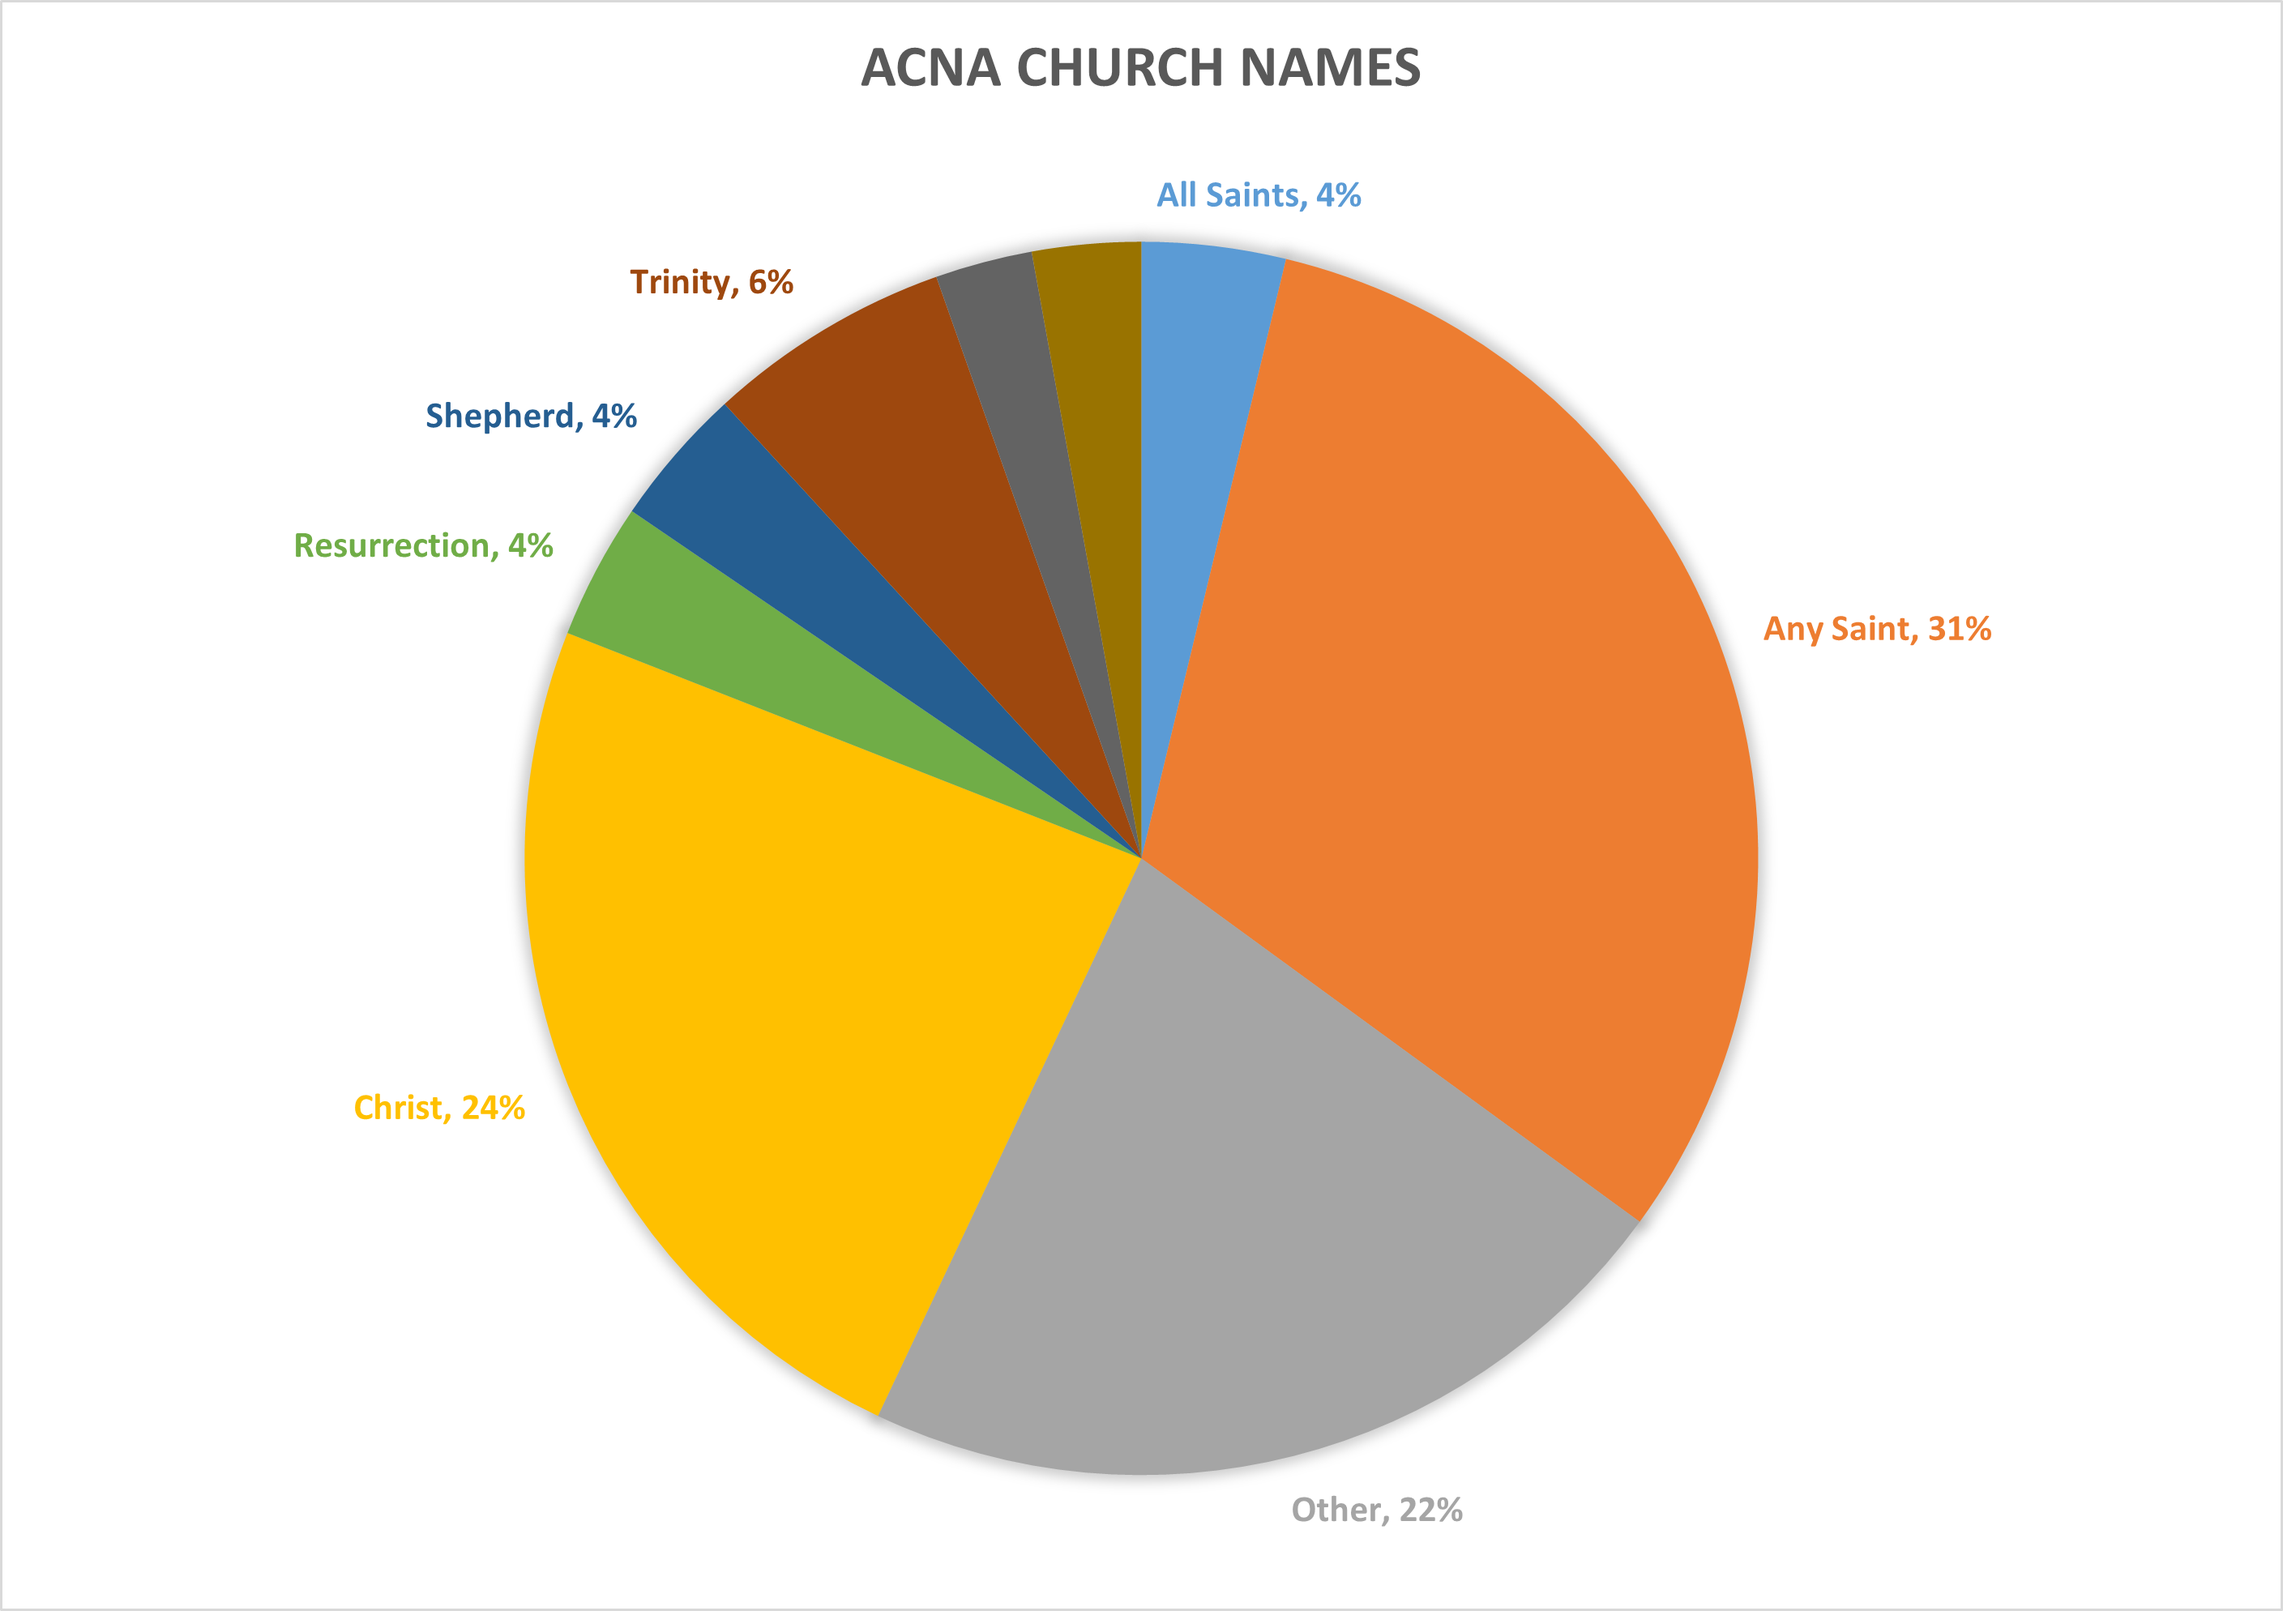
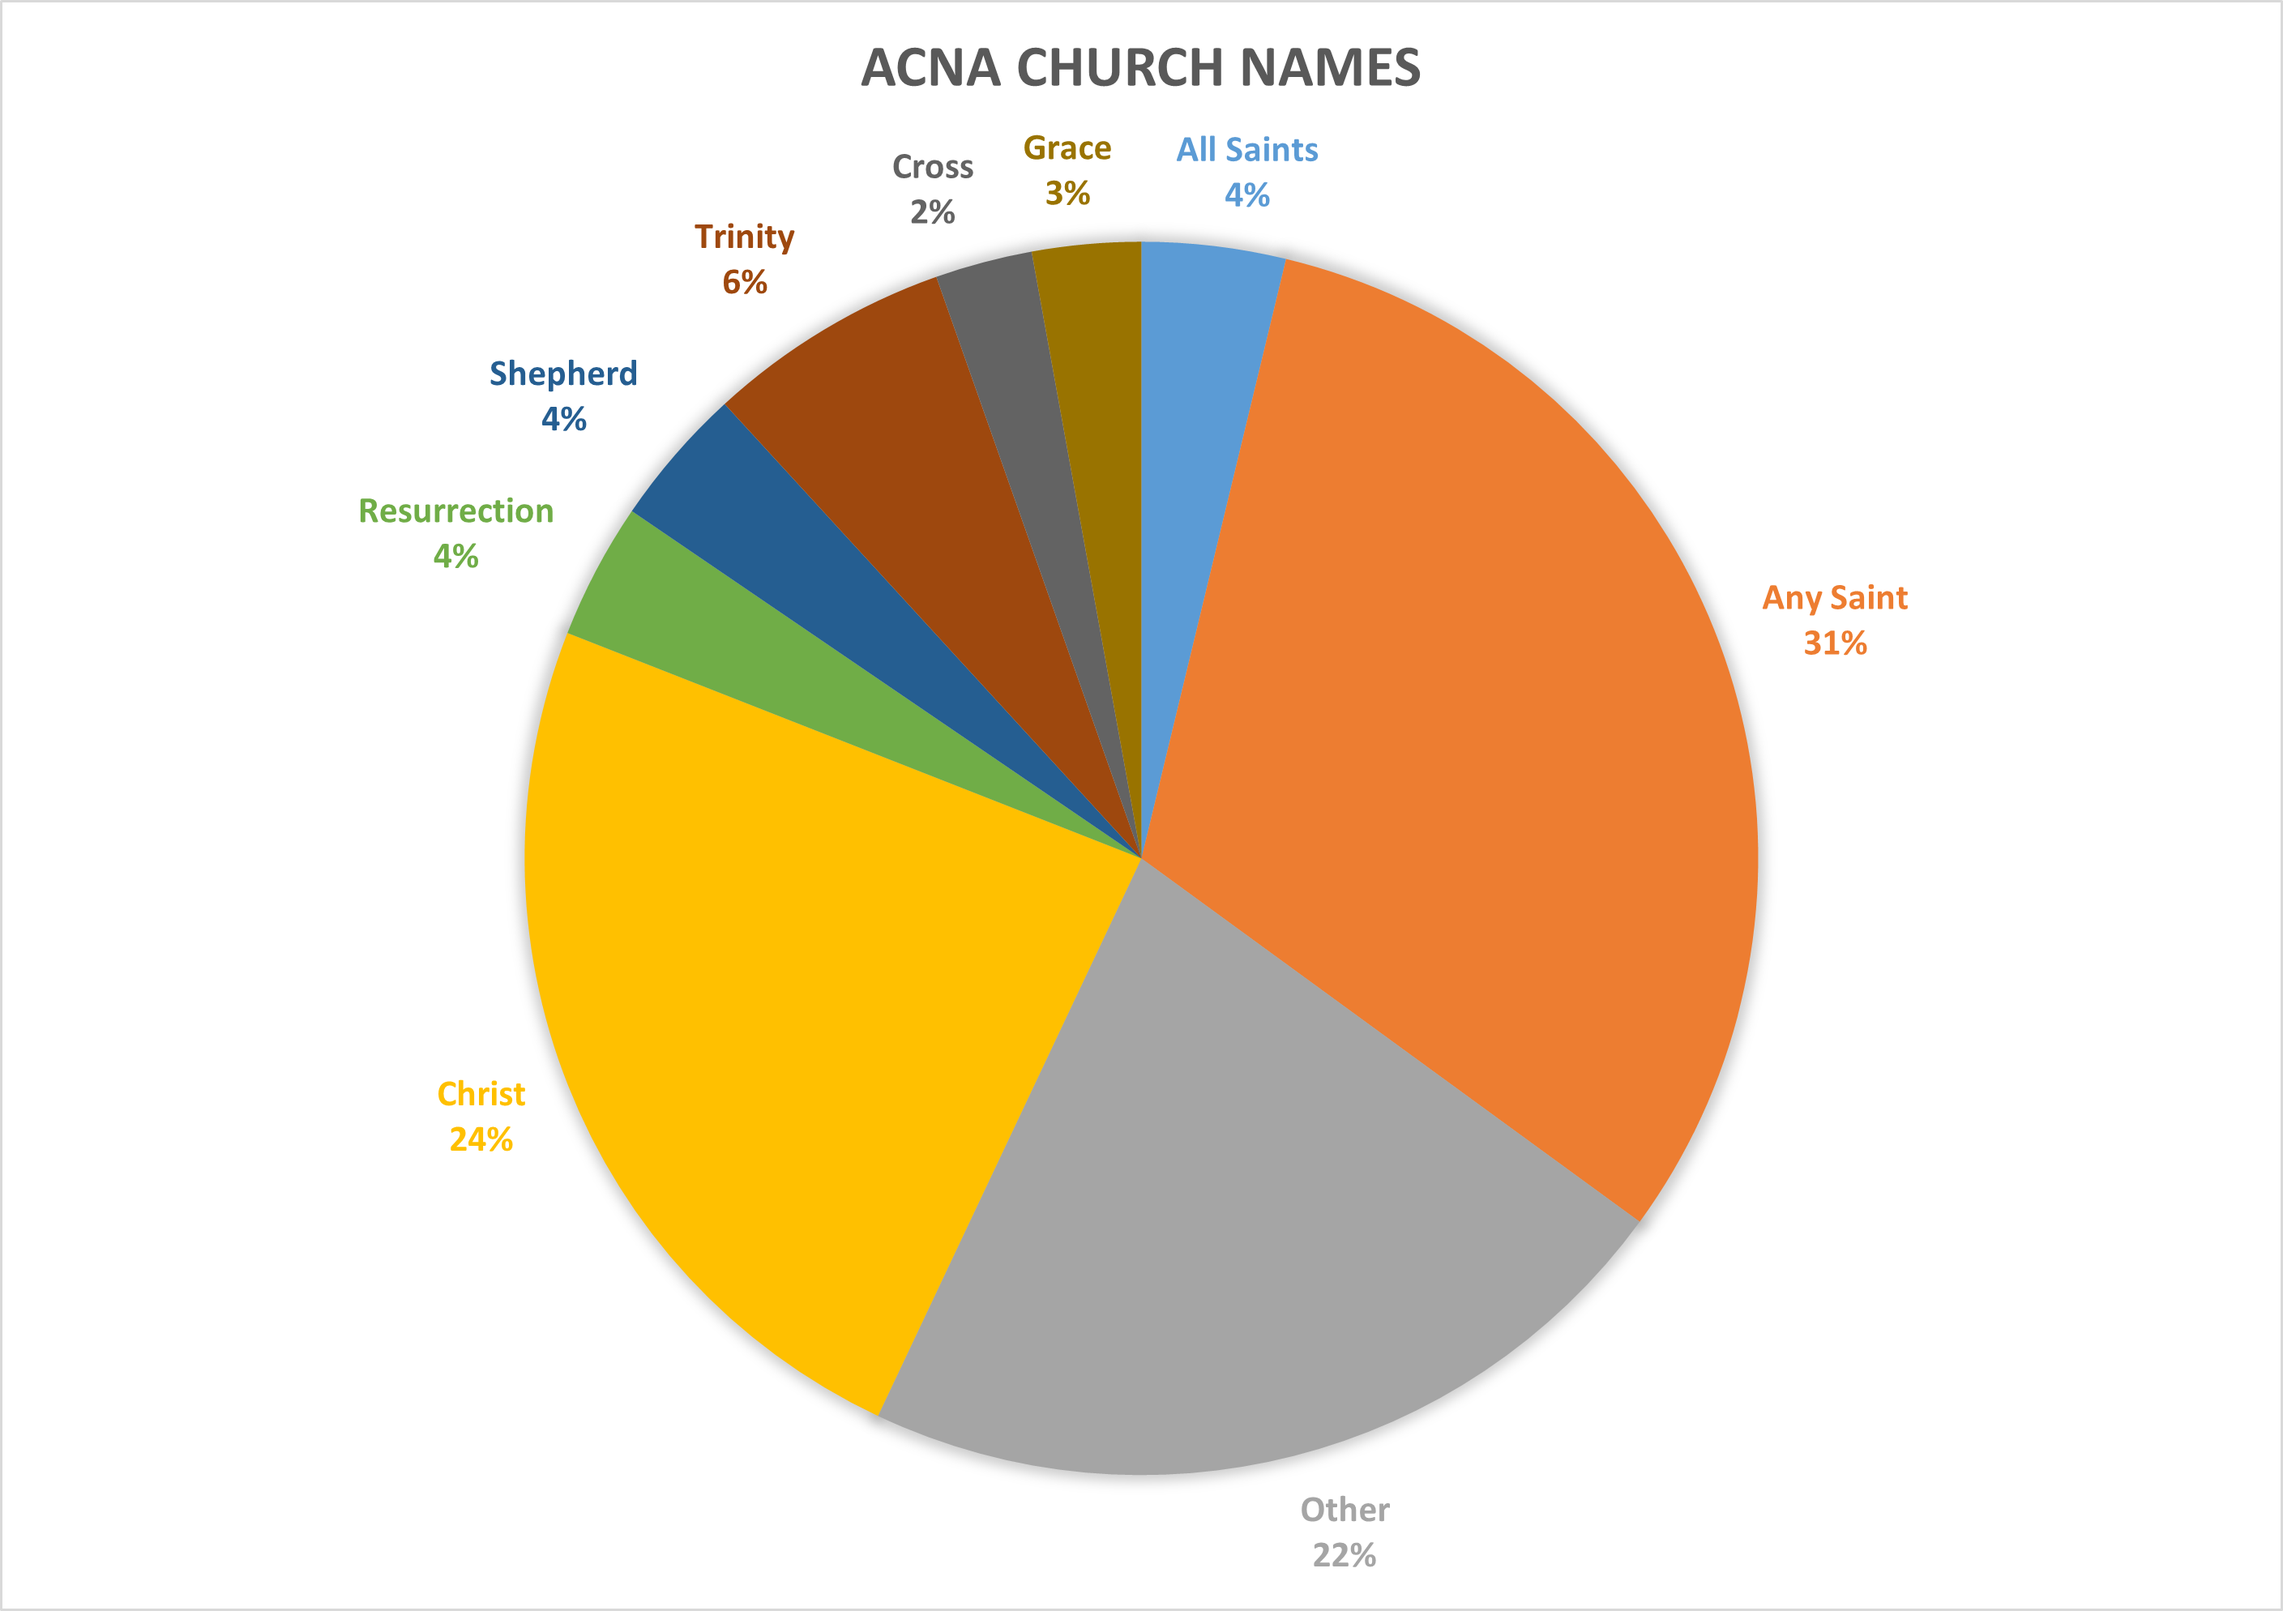
mods

diff --git a/acna_names.html b/acna_names.html
@@ -38,13 +38,13 @@
     		<p>I got the data (which was just names) from here: <a href="https://www.acna.org/admin_units?q%5Bkind_eq%5D=Congregation">acna.org.</a> There were 983 entities on that list, <i>almost</i> all of which are churches. I did not carefully check if all were churches, but I did remove one senior center. Thus, I considered 982 entities.<br>I go to a church called All Saints Anglican Church. I have long suspected that "All Saints" is the most common name of ACNA churches. Read on to see if my suspicion was correct.</p>
       <h3>The Data</h3>
       <img src="images/all_names.png" alt="Pie chart with percentages of ACNA parish names by category." width="558" border="0" align="middle">
-      <br><p><b>Figure 1.</b> This pie chart notes several of the most common categories that ACNA parish churches chose to name themselves after. This is not meant to be comprehensive. Main takeaways: almost one-third of churches are named after a saint (or sometimes two, like Peter and Paul). Almost one-quarter named their church "Christ" in one of many forms (e.g. Christ the King or Christ Our Redeemer).<br>The single most common name is "Christ Church" (n=40) and the second most common is "All Saints" (n=37).</p>
+      <br><p><b>Figure 1.</b> I coded each church with a key word or phrase. This pie chart breaks all the churches up into categories by key word. This is not meant to be comprehensive: "Other" includes all key words with fewer than 25 instances. Main takeaways: almost one-third of churches are named after a saint (or sometimes two, like St. Peter and St. Paul). Almost one-quarter named their church "Christ" in one of many forms (e.g. Christ the King or Christ Our Redeemer).<br>The single most common name is "Christ Church" (n=40) and the second most common is "All Saints" (n=37).</p>
       <img src="images/saints.png" alt="Number of parishes named after each of many saints." width="558"border="0" align="middle">
-        <br><p><b>Figure 2.</b> There are a lot of different saints that ANCA churches named themselves after. A .txt file listing all instances including saints with only one church named after them is available<a href="saints.txt">here.</a> I was extremely suprised to see so few churches named after the Virgin Mary (n=8, even including "Our Lady of X"-type names). Maybe it sounds too Catholic for North American Protestants? Also the Feast of St. Joseph (the husband of Mary) is the only Red-Letter Day on which no ACNA parish celebrates it's patron saint.<br>*David here is not King David but St. David of Wales.</p>
+        <br><p><b>Figure 2.</b> ACNA churches have named themselves after a lot of different saints, but the distribution is by no means even. A .txt file listing all instances including saints with only one church named after them is available<a href="saints.txt">here.</a> I was extremely suprised to see so few churches named after the Virgin Mary (n=8, even including "Our Lady of X"-type names). Maybe it sounds too Catholic for North American Protestants? Also, the Feast of St. Joseph (the husband of Mary) is the only Red-Letter Day on which no ACNA parish celebrates its patron saint.<br>*David here is not King David but St. David of Wales.</p>
       <img src="images/evangelists.png" alt="Number of parishes named after each of the four evangelists." width="558" border="0" align="middle">
-        <br><p><b>Figure 3. </b>John was the disciple Jesus loved, but he is apparantly also the Evangelist Anglicans love.<br>*To be fair, this category includes churches named after both John the Apostle and John the Baptist and I have no way of seperating them.</p>
+        <br><p><b>Figure 3. </b>John was the disciple Jesus loved, but he is apparantly also the Evangelist Anglicans love.<br>*To be fair, this category includes churches named after both John the Apostle and John the Baptist but this data set has no way of seperating them.</p>
       <img src="images/disciples.png" alt="Number of parishes named after each of the twelve disciples." width="558" border="0" align="middle">
-        <br><p><b>Figure 4. </b>Poor Judas (not Iscariot) never gets churches named after him because his mom and dad gave him the <a href="http://yeshuaincontext.com/2011/03/jewish-names-in-galilee-and-judea">fourth most common name</a> of his time.<br>*note that there are multiple people named James in the NT, but churches do not identify who they are named for.</p>
+        <br><p><b>Figure 4. </b>Poor Judas (not Iscariot) never gets churches named after him because his mom and dad gave him the <a href="http://yeshuaincontext.com/2011/03/jewish-names-in-galilee-and-judea">fourth most common name</a> of his time.<br>*note that there are multiple people named James in the NT, but churches do not identify who they are named for. (Same with John).</p>
       <img src="images/shepherd.png" alt="Divisions among the churches named after Christ as shepherd." width="558" border="0" align="middle">
         <br><p><b>Figure 5.</b> One group of Spanish-speakers prefers "Gran Pastor" and another prefers "Buen Pastor". By the way, for this analyis Spanish names were usually translated into English for categorization “Iglesia Piedra Angular” → "Cornerstone Church" and “Iglesia Santa Cruz” → "Holy Cross Church".</p>
       <img src="images/trinity.png" alt="Divisions among the churches named after the Trinity." width="558" border="0" align="middle">

diff --git a/cookingblog.html b/cookingblog.html
@@ -38,10 +38,10 @@
 Entry template
 <div>
   <p id=dish
+</div>
 
   -->
 
-</div>
 <div id="nav-placeholder"></div>
 <script>
 		$.get("nav.html", function(data){
